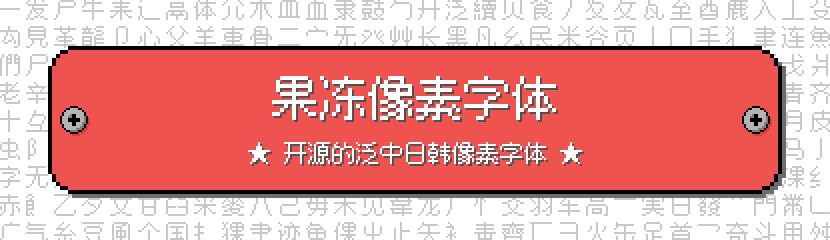
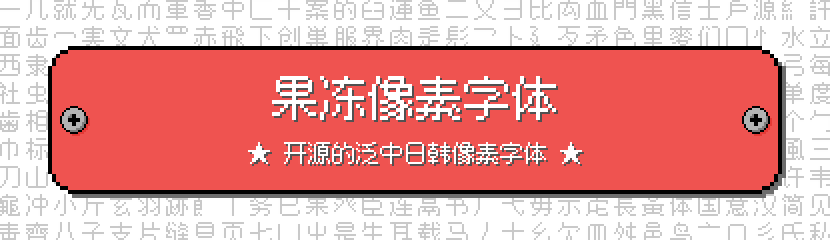
2026.02.27

Changed region(s): [[0.0, 0.35, 1.0, 1.0], [0.0, 0.0, 1.0, 0.3208], [0.0, 0.35, 0.0602, 0.7875]]

diff --git a/tools/configs/__init__.py b/tools/configs/__init__.py
@@ -4,7 +4,7 @@ from pixel_font_knife.kerning_util import KerningConfig
 from tools.configs import path_define, options
 from tools.configs.font import FontConfig
 
-version = '2026.01.21'
+version = '2026.02.27'
 
 font_configs = {font_size: FontConfig.load(font_size) for font_size in options.font_sizes}
 

diff --git a/docs/info-12px-monospaced.md b/docs/info-12px-monospaced.md
@@ -4,8 +4,8 @@
 
 | 属性 | 值 |
 |---|---|
-| 版本号 | 2026.01.21 |
-| 字符总数 | 3478 |
+| 版本号 | 2026.02.27 |
+| 字符总数 | 3778 |
 
 ## Unicode 字符分布
 
@@ -29,7 +29,7 @@ Unicode 版本：17.0.0
 | 2500 ~ 257F | Box Drawing | 制表符 | 128 / 128 | 0 | 100.00% 🚩 |
 | 2580 ~ 259F | Block Elements | 方块元素 | 32 / 32 | 0 | 100.00% 🚩 |
 | 25A0 ~ 25FF | Geometric Shapes | 几何形状 | 96 / 96 | 0 | 100.00% 🚩 |
-| 2600 ~ 26FF | Miscellaneous Symbols | 各式符号 | 184 / 256 | 72 | 71.88% 🚧 |
+| 2600 ~ 26FF | Miscellaneous Symbols | 各式符号 | 188 / 256 | 68 | 73.44% 🚧 |
 | 2700 ~ 27BF | Dingbats | 杂锦 | 34 / 192 | 158 | 17.71% 🚧 |
 | 2800 ~ 28FF | Braille Patterns | 盲文图案 | 256 / 256 | 0 | 100.00% 🚩 |
 | 2C60 ~ 2C7F | Latin Extended-C | 拉丁扩充-C | 4 / 32 | 28 | 12.50% 🚧 |
@@ -44,8 +44,9 @@ Unicode 版本：17.0.0
 | 3200 ~ 32FF | Enclosed CJK Letters and Months | 包围中日韩字母与月份 | 92 / 255 | 163 | 36.08% 🚧 |
 | 3300 ~ 33FF | CJK Compatibility | 中日韩兼容 | 60 / 256 | 196 | 23.44% 🚧 |
 | 3400 ~ 4DBF | CJK Unified Ideographs Extension A | 中日韩统一表意文字扩充 A | 3 / 6592 | 6589 | 0.05% 🚧 |
-| 4E00 ~ 9FFF | CJK Unified Ideographs | 中日韩统一表意文字 | 331 / 20992 | 20661 | 1.58% 🚧 |
+| 4E00 ~ 9FFF | CJK Unified Ideographs | 中日韩统一表意文字 | 389 / 20992 | 20603 | 1.85% 🚧 |
 | A720 ~ A7FF | Latin Extended-D | 拉丁扩充-D | 7 / 204 | 197 | 3.43% 🚧 |
+| E000 ~ F8FF | Private Use Area | 私用区域 | 238 / 0 | 0 | 100.00% 🚩 |
 | FE10 ~ FE1F | Vertical Forms | 竖排形式 | 10 / 10 | 0 | 100.00% 🚩 |
 | FE30 ~ FE4F | CJK Compatibility Forms | 中日韩兼容形式 | 32 / 32 | 0 | 100.00% 🚩 |
 | FF00 ~ FFEF | Halfwidth and Fullwidth Forms | 半宽与全宽形式 | 173 / 225 | 52 | 76.89% 🚧 |
@@ -65,10 +66,10 @@ Unicode 版本：17.0.0
 
 | 区块名称 | 完成数 | 缺失数 | 进度 |
 |---|---:|---:|---:|
-| 一级汉字 | 195 / 3755 | 3560 | 5.19% 🚧 |
+| 一级汉字 | 253 / 3755 | 3502 | 6.74% 🚧 |
 | 二级汉字 | 70 / 3008 | 2938 | 2.33% 🚧 |
 | 其他字符 | 651 / 682 | 31 | 95.45% 🚧 |
-| 总计 | 916 / 7445 | 6529 | 12.30% 🚧 |
+| 总计 | 974 / 7445 | 6471 | 13.08% 🚧 |
 
 ## Big5 字符分布
 
@@ -76,10 +77,10 @@ Unicode 版本：17.0.0
 
 | 区块名称 | 完成数 | 缺失数 | 进度 |
 |---|---:|---:|---:|
-| 常用汉字 | 204 / 5401 | 5197 | 3.78% 🚧 |
+| 常用汉字 | 239 / 5401 | 5162 | 4.43% 🚧 |
 | 次常用汉字 | 24 / 7652 | 7628 | 0.31% 🚧 |
 | 其他字符 | 336 / 408 | 72 | 82.35% 🚧 |
-| 总计 | 564 / 13461 | 12897 | 4.19% 🚧 |
+| 总计 | 599 / 13461 | 12862 | 4.45% 🚧 |
 
 ## Shift-JIS 字符分布
 
@@ -90,8 +91,8 @@ Unicode 版本：17.0.0
 | 单字节-ASCII可打印字符 | 95 / 95 | 0 | 100.00% 🚩 |
 | 单字节-半角片假名 | 63 / 63 | 0 | 100.00% 🚩 |
 | 双字节-其他字符 | 491 / 524 | 33 | 93.70% 🚧 |
-| 双字节-汉字 | 258 / 6355 | 6097 | 4.06% 🚧 |
-| 总计 | 907 / 7037 | 6130 | 12.89% 🚧 |
+| 双字节-汉字 | 297 / 6355 | 6058 | 4.67% 🚧 |
+| 总计 | 946 / 7037 | 6091 | 13.44% 🚧 |
 
 ## KS-X-1001 字符分布
 
@@ -100,6 +101,6 @@ Unicode 版本：17.0.0
 | 区块名称 | 完成数 | 缺失数 | 进度 |
 |---|---:|---:|---:|
 | 谚文音节 | 0 / 2350 | 2350 | 0.00% 🚧 |
-| 汉字 | 192 / 4888 | 4696 | 3.93% 🚧 |
+| 汉字 | 227 / 4888 | 4661 | 4.64% 🚧 |
 | 其他字符 | 801 / 988 | 187 | 81.07% 🚧 |
-| 总计 | 993 / 8226 | 7233 | 12.07% 🚧 |
+| 总计 | 1028 / 8226 | 7198 | 12.50% 🚧 |

diff --git a/docs/info-12px-proportional.md b/docs/info-12px-proportional.md
@@ -4,8 +4,8 @@
 
 | 属性 | 值 |
 |---|---|
-| 版本号 | 2026.01.21 |
-| 字符总数 | 3497 |
+| 版本号 | 2026.02.27 |
+| 字符总数 | 3797 |
 
 ## Unicode 字符分布
 
@@ -29,7 +29,7 @@ Unicode 版本：17.0.0
 | 2500 ~ 257F | Box Drawing | 制表符 | 128 / 128 | 0 | 100.00% 🚩 |
 | 2580 ~ 259F | Block Elements | 方块元素 | 32 / 32 | 0 | 100.00% 🚩 |
 | 25A0 ~ 25FF | Geometric Shapes | 几何形状 | 96 / 96 | 0 | 100.00% 🚩 |
-| 2600 ~ 26FF | Miscellaneous Symbols | 各式符号 | 184 / 256 | 72 | 71.88% 🚧 |
+| 2600 ~ 26FF | Miscellaneous Symbols | 各式符号 | 188 / 256 | 68 | 73.44% 🚧 |
 | 2700 ~ 27BF | Dingbats | 杂锦 | 34 / 192 | 158 | 17.71% 🚧 |
 | 2800 ~ 28FF | Braille Patterns | 盲文图案 | 256 / 256 | 0 | 100.00% 🚩 |
 | 2C60 ~ 2C7F | Latin Extended-C | 拉丁扩充-C | 4 / 32 | 28 | 12.50% 🚧 |
@@ -44,8 +44,9 @@ Unicode 版本：17.0.0
 | 3200 ~ 32FF | Enclosed CJK Letters and Months | 包围中日韩字母与月份 | 92 / 255 | 163 | 36.08% 🚧 |
 | 3300 ~ 33FF | CJK Compatibility | 中日韩兼容 | 60 / 256 | 196 | 23.44% 🚧 |
 | 3400 ~ 4DBF | CJK Unified Ideographs Extension A | 中日韩统一表意文字扩充 A | 3 / 6592 | 6589 | 0.05% 🚧 |
-| 4E00 ~ 9FFF | CJK Unified Ideographs | 中日韩统一表意文字 | 331 / 20992 | 20661 | 1.58% 🚧 |
+| 4E00 ~ 9FFF | CJK Unified Ideographs | 中日韩统一表意文字 | 389 / 20992 | 20603 | 1.85% 🚧 |
 | A720 ~ A7FF | Latin Extended-D | 拉丁扩充-D | 7 / 204 | 197 | 3.43% 🚧 |
+| E000 ~ F8FF | Private Use Area | 私用区域 | 238 / 0 | 0 | 100.00% 🚩 |
 | FE10 ~ FE1F | Vertical Forms | 竖排形式 | 10 / 10 | 0 | 100.00% 🚩 |
 | FE30 ~ FE4F | CJK Compatibility Forms | 中日韩兼容形式 | 32 / 32 | 0 | 100.00% 🚩 |
 | FF00 ~ FFEF | Halfwidth and Fullwidth Forms | 半宽与全宽形式 | 173 / 225 | 52 | 76.89% 🚧 |
@@ -65,10 +66,10 @@ Unicode 版本：17.0.0
 
 | 区块名称 | 完成数 | 缺失数 | 进度 |
 |---|---:|---:|---:|
-| 一级汉字 | 195 / 3755 | 3560 | 5.19% 🚧 |
+| 一级汉字 | 253 / 3755 | 3502 | 6.74% 🚧 |
 | 二级汉字 | 70 / 3008 | 2938 | 2.33% 🚧 |
 | 其他字符 | 651 / 682 | 31 | 95.45% 🚧 |
-| 总计 | 916 / 7445 | 6529 | 12.30% 🚧 |
+| 总计 | 974 / 7445 | 6471 | 13.08% 🚧 |
 
 ## Big5 字符分布
 
@@ -76,10 +77,10 @@ Unicode 版本：17.0.0
 
 | 区块名称 | 完成数 | 缺失数 | 进度 |
 |---|---:|---:|---:|
-| 常用汉字 | 204 / 5401 | 5197 | 3.78% 🚧 |
+| 常用汉字 | 239 / 5401 | 5162 | 4.43% 🚧 |
 | 次常用汉字 | 24 / 7652 | 7628 | 0.31% 🚧 |
 | 其他字符 | 336 / 408 | 72 | 82.35% 🚧 |
-| 总计 | 564 / 13461 | 12897 | 4.19% 🚧 |
+| 总计 | 599 / 13461 | 12862 | 4.45% 🚧 |
 
 ## Shift-JIS 字符分布
 
@@ -90,8 +91,8 @@ Unicode 版本：17.0.0
 | 单字节-ASCII可打印字符 | 95 / 95 | 0 | 100.00% 🚩 |
 | 单字节-半角片假名 | 63 / 63 | 0 | 100.00% 🚩 |
 | 双字节-其他字符 | 491 / 524 | 33 | 93.70% 🚧 |
-| 双字节-汉字 | 258 / 6355 | 6097 | 4.06% 🚧 |
-| 总计 | 907 / 7037 | 6130 | 12.89% 🚧 |
+| 双字节-汉字 | 297 / 6355 | 6058 | 4.67% 🚧 |
+| 总计 | 946 / 7037 | 6091 | 13.44% 🚧 |
 
 ## KS-X-1001 字符分布
 
@@ -100,6 +101,6 @@ Unicode 版本：17.0.0
 | 区块名称 | 完成数 | 缺失数 | 进度 |
 |---|---:|---:|---:|
 | 谚文音节 | 0 / 2350 | 2350 | 0.00% 🚧 |
-| 汉字 | 192 / 4888 | 4696 | 3.93% 🚧 |
+| 汉字 | 227 / 4888 | 4661 | 4.64% 🚧 |
 | 其他字符 | 803 / 988 | 185 | 81.28% 🚧 |
-| 总计 | 995 / 8226 | 7231 | 12.10% 🚧 |
+| 总计 | 1030 / 8226 | 7196 | 12.52% 🚧 |
